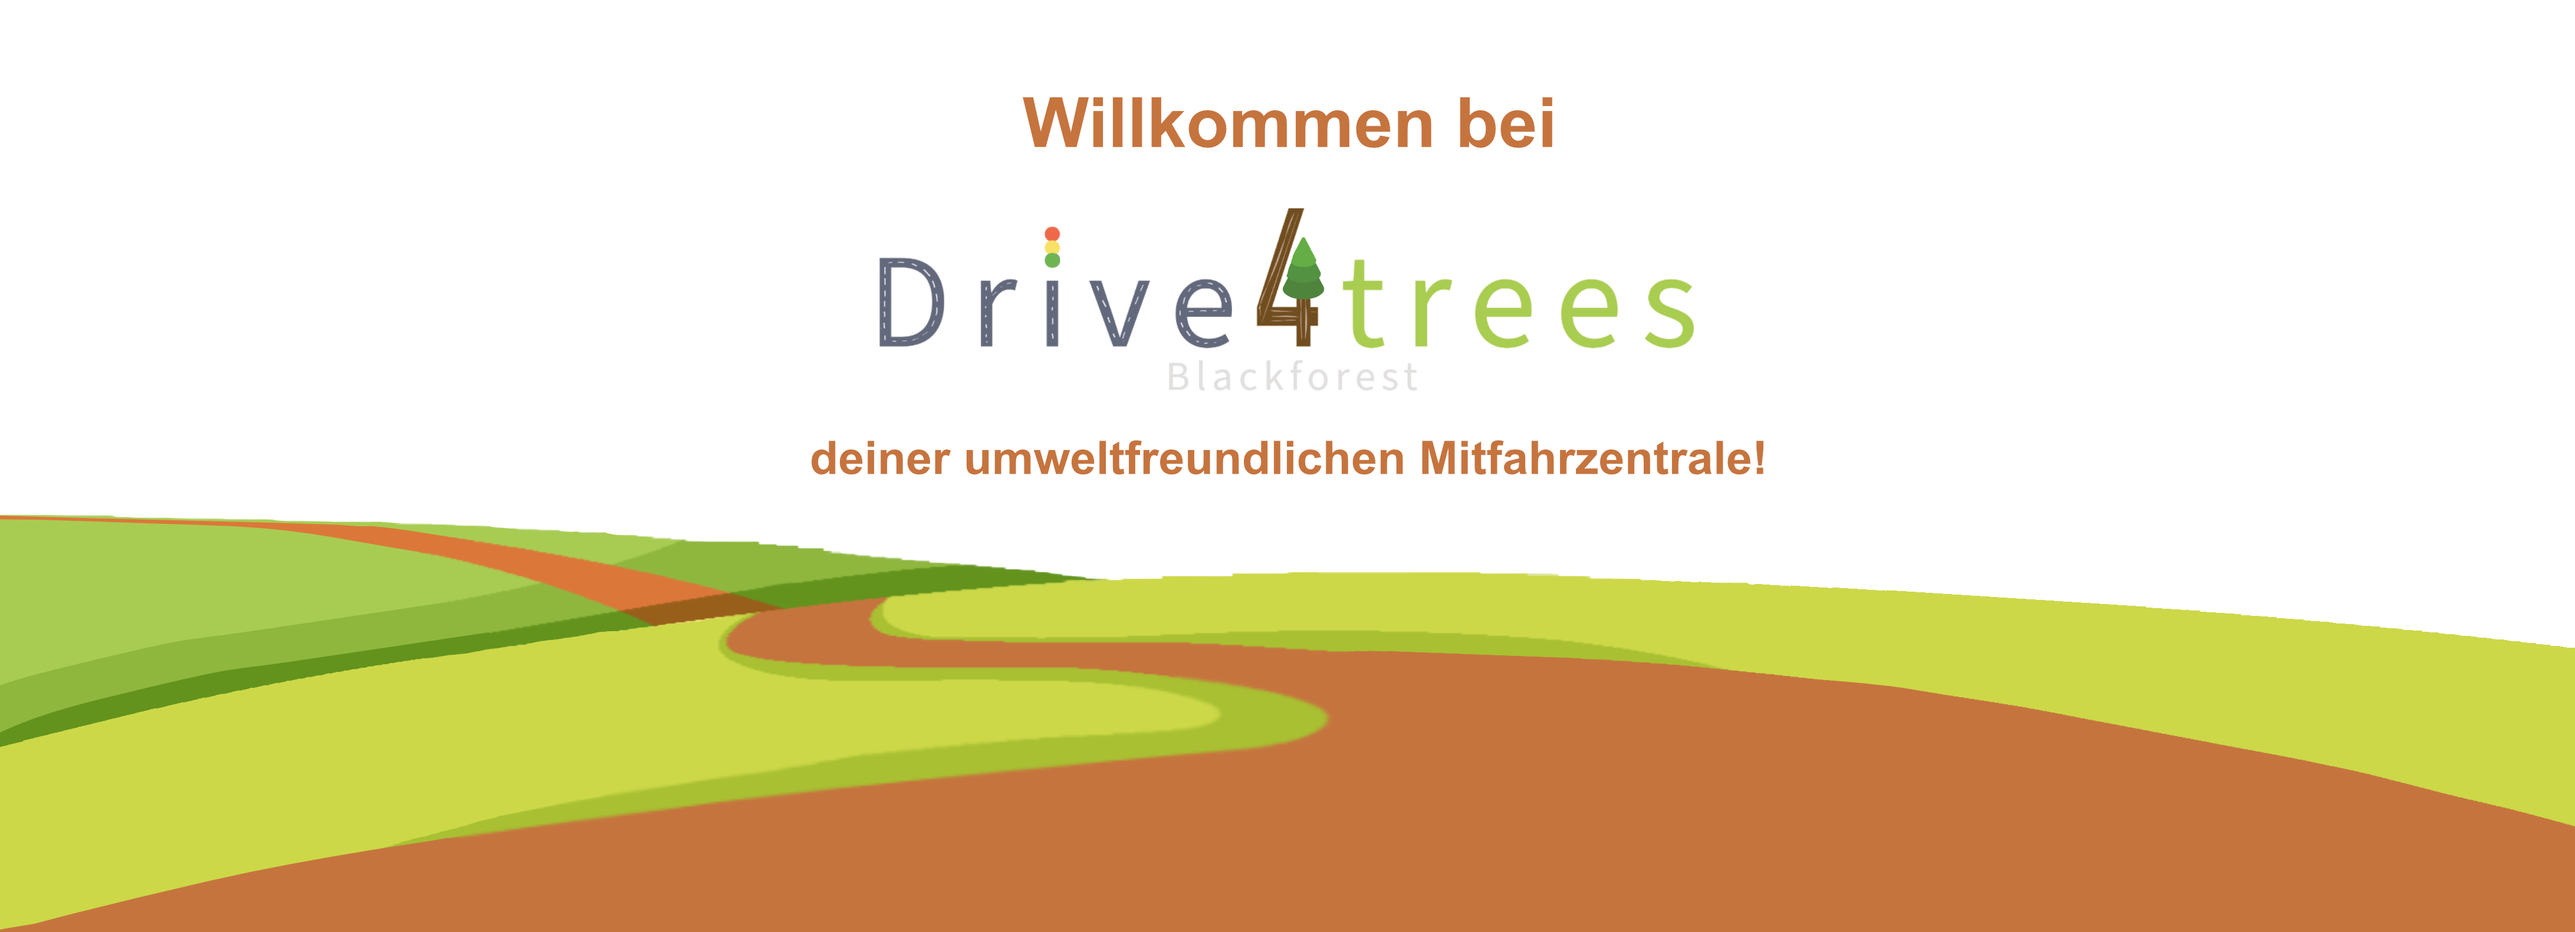
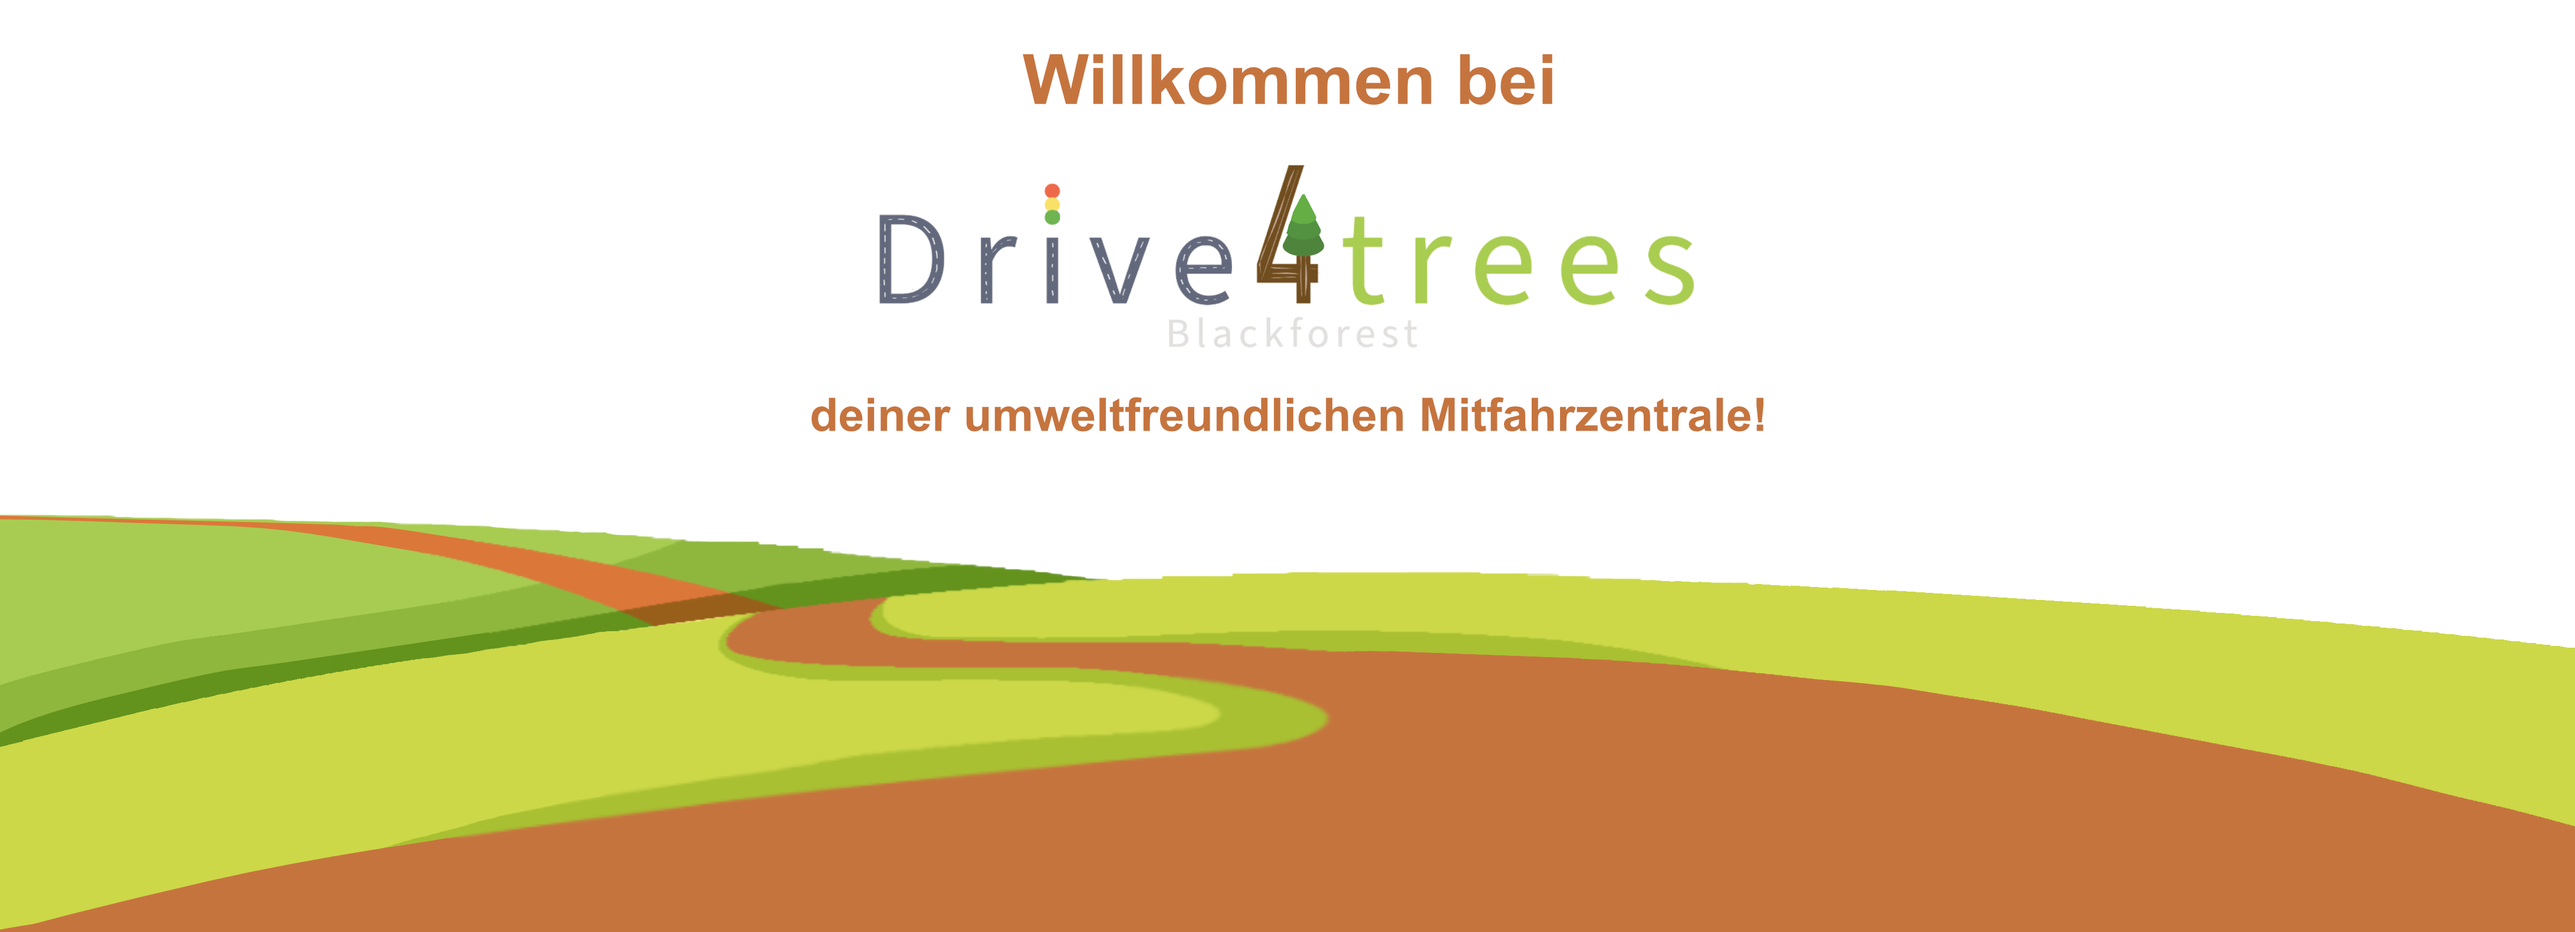
init

Changed region(s): [[0.3426, 0.062, 0.6541, 0.3722], [0.3115, 0.4032, 0.6853, 0.5272]]

diff --git a/index.css b/index.css
@@ -5,6 +5,70 @@ body {
   height: 100%;
 }
 
+.menu {
+  background: #f6ad72;
+  height: 5rem;
+  font-size: 30px;
+}
+
+.menu ol {
+  list-style-type: none;
+  margin: 0 auto;
+  padding: 0;
+}
+
+.menu > ol {
+  max-width: 1200px;
+  padding: 0 2rem;
+  padding-top: 0.7rem;
+  display: flex;
+}
+
+.menu > ol > .menu-item {
+  flex: 1;
+  padding: 0.75rem 0;
+  padding-bottom: 0;
+}
+
+.menu-item {
+  position: relative;
+  line-height: 2rem;
+  text-align: center;
+}
+
+.menu-item:hover {
+  text-decoration: underline;
+  text-underline-offset: 0.2em;
+}
+
+.menu-item a {
+  overflow: hidden;
+  white-space: nowrap;
+  text-overflow: ellipsis;
+  display: block;
+  color: #fff;
+}
+
+#active {
+  text-decoration-line: underline;
+  color: #fff;
+  cursor: pointer;
+  text-underline-offset: 0.2em;
+}
+
+* {
+  box-sizing: border-box;
+}
+
+*:before,
+*:after {
+  box-sizing: inherit;
+}
+
+a {
+  text-decoration: none;
+}
+
 .header {
   display: block;
   margin-left: auto;
@@ -14,24 +78,24 @@ body {
 
 .middle {
   text-align: center;
-  padding: 10px;
+  padding: 15px;
   background-color: #c6743e;
 }
 
 .textMiddle {
+  width: 1250px;
+  margin: auto;
   color: whitesmoke;
   font-weight: bold;
-  font-size: 30px;
-  margin: 0%;
-  padding: 50px;
-  padding-top: 10px;
+  font-size: 35px;
 }
 
 .screenshots {
-padding-top: 20px;
+  padding-top: 20px;
 }
 
-.ph1 , .ph2 {
+.ph1,
+.ph2 {
   border: 10px solid whitesmoke;
   border-radius: 25px;
   margin-right: 100px;
@@ -48,25 +112,28 @@ padding-top: 20px;
   margin-left: 100px;
 }
 
-.ph1:hover , .ph2:hover , .ph3:hover , .ph4:hover {
+.ph1:hover,
+.ph2:hover,
+.ph3:hover,
+.ph4:hover {
   transform: scale(1.3);
 }
 
-.rubriken{
-padding-top: 40px;
-color: whitesmoke;
-font-weight: bold;
-font-size: 30px;
+.rubriken {
+  padding-top: 40px;
+  color: whitesmoke;
+  font-weight: bold;
+  font-size: 30px;
 }
 
 #rubriken2 {
-padding-top: 0;
+  padding-top: 0;
 }
 
-.footer{
+.footer {
   padding-top: 20px;
-color: whitesmoke;
-font-size: 15px;
+  color: whitesmoke;
+  font-size: 15px;
 }
 
 .content {

diff --git a/index.html b/index.html
@@ -11,11 +11,34 @@
 </head>
 
 <body>
+
+  <nav class="menu">
+    <ol>
+      <li id="active" class="menu-item"> Über uns
+      </li>
+
+      <li class="menu-item"><a href="">Ideenfindung</a>
+      </li>
+
+      <li class="menu-item">
+        <a href="">Prototypisierungen</a>
+      </li>
+
+      <li class="menu-item">
+        <a href="">Ergebnisse</a>
+      </li>
+    </ol>
+  </nav>
+
+  <br>
+  <br>
+
   <div>
     <img class="header" src="Header.png" alt="header" />
   </div>
 
   <div class="middle">
+
     <p class="textMiddle">
       Mit unserer App ermöglichen wir nicht nur Mitfahrgelegenheiten durch den
       gesamten Schwarzwald, sondern tun dabei auch noch etwas Gutes für unsere
@@ -33,6 +56,9 @@
       Pro Fahrt sammelst du Umweltcoins. Mit 5 Coins kannst du
       einen Baum im Schwarzwald pflanzen.
     </p>
+
+  </br>
+</br>
 
     <div class="screenshots">
       <img class="ph1" src="1.png" alt="1" width="150" />
